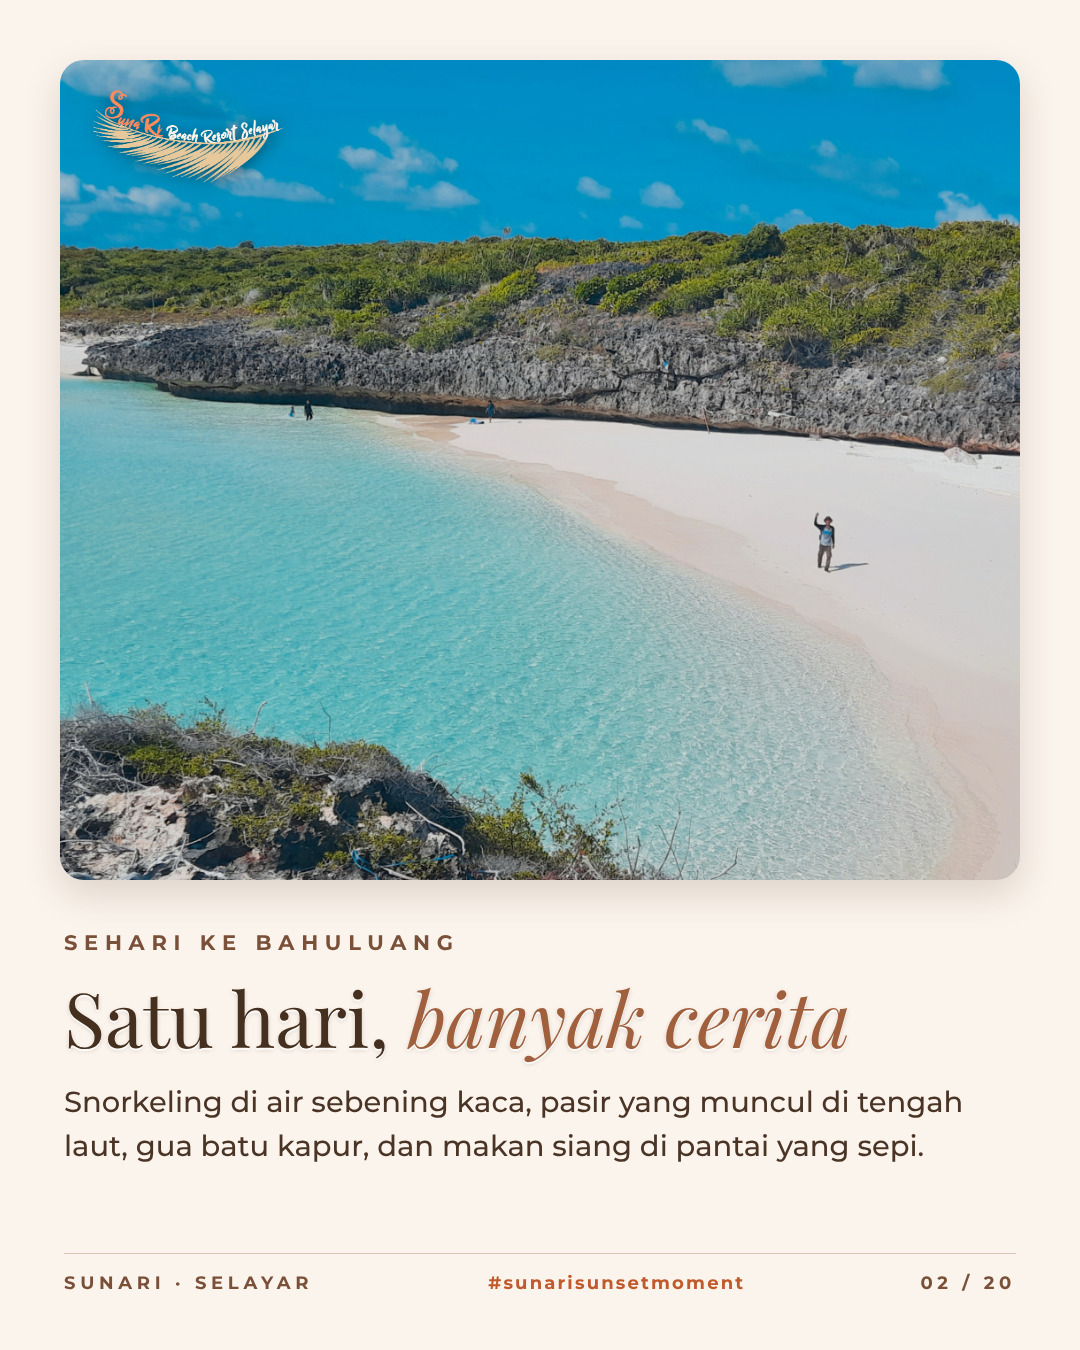
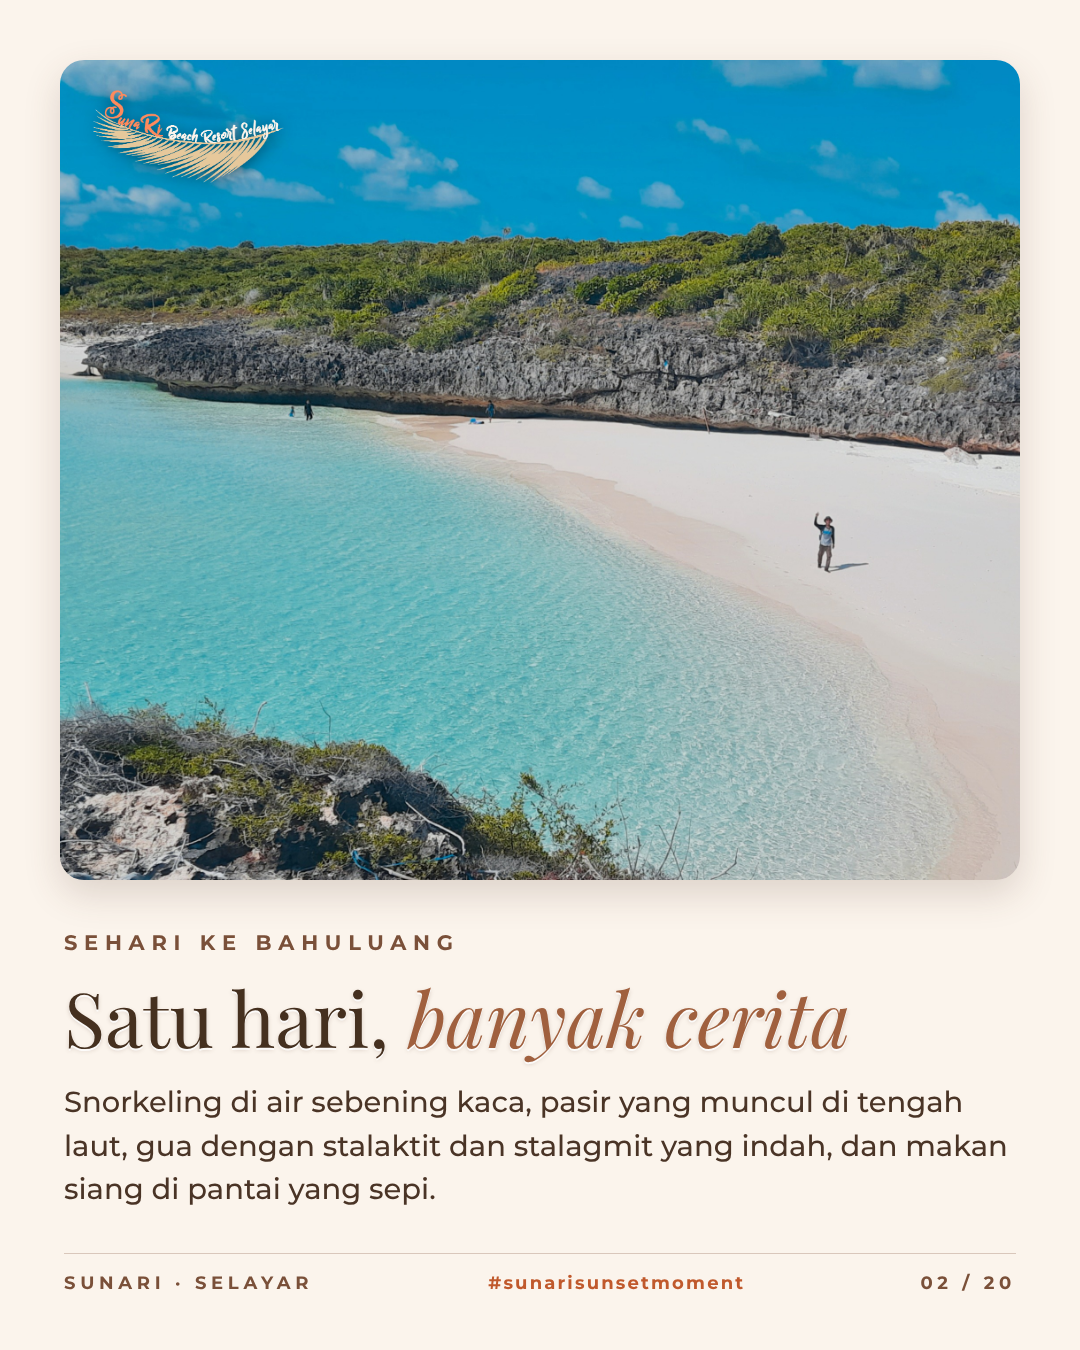
Feed Bahuluang 20: slide 2 sebut stalaktit & stalagmit
Claude-Session: https://claude.ai/code/session_01KeLc5cK8xRmfcoMz1j2mcH

Changed region(s): [[0.0611, 0.84, 0.9472, 0.9022]]

diff --git a/social/bahuluang_feed20.html b/social/bahuluang_feed20.html
@@ -36,7 +36,7 @@ body{background:#bbb;font-family:Montserrat,sans-serif}
   <div class="vt"></div><div class="vb"></div>
   <div class="fk">Dari SunaRi Beach Resort</div><div class="fh">Sehari ke<br>Bahuluang</div><div class="fs">Berangkat pagi dari SunaRi, pulang menyambut senja</div>
   <div class="fg">Ikuti perjalanannya &nbsp;→</div><img class="fl" src="../assets/logo-sunari-color-dark.png" alt=""></div><div class="t" id="bahuluang-02"><div class="ph"><img src="../assets/photos/bahuluang/51-pantai-barat-teluk-pasir-putih.jpg" style="object-position:45% 50%" alt=""><img class="lg" src="../assets/logo-sunari-color-dark.png" alt=""></div>
-  <div class="kick">Sehari ke Bahuluang</div><div class="ttl emb">Satu hari, <em>banyak cerita</em></div><div class="sub">Snorkeling di air sebening kaca, pasir yang muncul di tengah laut, gua batu kapur, dan makan siang di pantai yang sepi.</div>
+  <div class="kick">Sehari ke Bahuluang</div><div class="ttl emb">Satu hari, <em>banyak cerita</em></div><div class="sub">Snorkeling di air sebening kaca, pasir yang muncul di tengah laut, gua dengan stalaktit dan stalagmit yang indah, dan makan siang di pantai yang sepi.</div>
   <div class="bt"><span>SunaRi · Selayar</span><span class="h">#sunarisunsetmoment</span><span>02 / 20</span></div></div><div class="t" id="bahuluang-03"><div class="ph"><img src="../assets/photos/taman/05-meja-taman-view-laut-gazebo.jpg" style="object-position:50% 55%" alt=""><img class="lg" src="../assets/logo-sunari-color-dark.png" alt=""></div>
   <div class="kick">Sehari ke Bahuluang<span class="chip">± 07.00</span></div><div class="ttl emb">Pagi yang <em>pelan</em> di SunaRi</div><div class="sub">Sarapan di Bajoy Beach Resto sambil memandang laut. Siapkan baju renang, topi, dan tabir surya.</div>
   <div class="bt"><span>SunaRi · Selayar</span><span class="h">#sunarisunsetmoment</span><span>03 / 20</span></div></div><div class="t" id="bahuluang-04"><div class="ph"><img src="../assets/photos/pantai/02-perahu-nelayan-biru.jpg" style="object-position:50% 55%" alt=""><img class="lg" src="../assets/logo-sunari-color-dark.png" alt=""></div>

diff --git a/social/build_bahuluang_feed20.py b/social/build_bahuluang_feed20.py
@@ -16,7 +16,7 @@ CSS += """
 # (foto, posisi, judul, teks, jam)
 SL = [
  (B + "40-pantai-barat-air-toska-awan.jpg", "50% 60%", "Sehari ke<br>Bahuluang", "Berangkat pagi dari SunaRi, pulang menyambut senja", ""),
- (B + "51-pantai-barat-teluk-pasir-putih.jpg", "45% 50%", 'Satu hari, <em>banyak cerita</em>', "Snorkeling di air sebening kaca, pasir yang muncul di tengah laut, gua batu kapur, dan makan siang di pantai yang sepi.", ""),
+ (B + "51-pantai-barat-teluk-pasir-putih.jpg", "45% 50%", 'Satu hari, <em>banyak cerita</em>', "Snorkeling di air sebening kaca, pasir yang muncul di tengah laut, gua dengan stalaktit dan stalagmit yang indah, dan makan siang di pantai yang sepi.", ""),
  (P + "taman/05-meja-taman-view-laut-gazebo.jpg", "50% 55%", 'Pagi yang <em>pelan</em> di SunaRi', "Sarapan di Bajoy Beach Resto sambil memandang laut. Siapkan baju renang, topi, dan tabir surya.", "07.00"),
  (P + "pantai/02-perahu-nelayan-biru.jpg", "50% 55%", 'Mengikuti <em>laut</em> hari itu', "Pagi-pagi kami cek pasang-surut dan kabari kamu. Dari situ ditentukan titik temu dengan kapten kapal.", "08.00"),
  (B + "22-kapal-menuju-batu-berlubang.jpg", "50% 55%", 'Menyeberang <em>ke pulau</em>', "Air cukup tinggi, kapal berangkat dari Bone Taringan, sekitar 20 menit. Air surut, kita berangkat dari Turungan.", ""),
